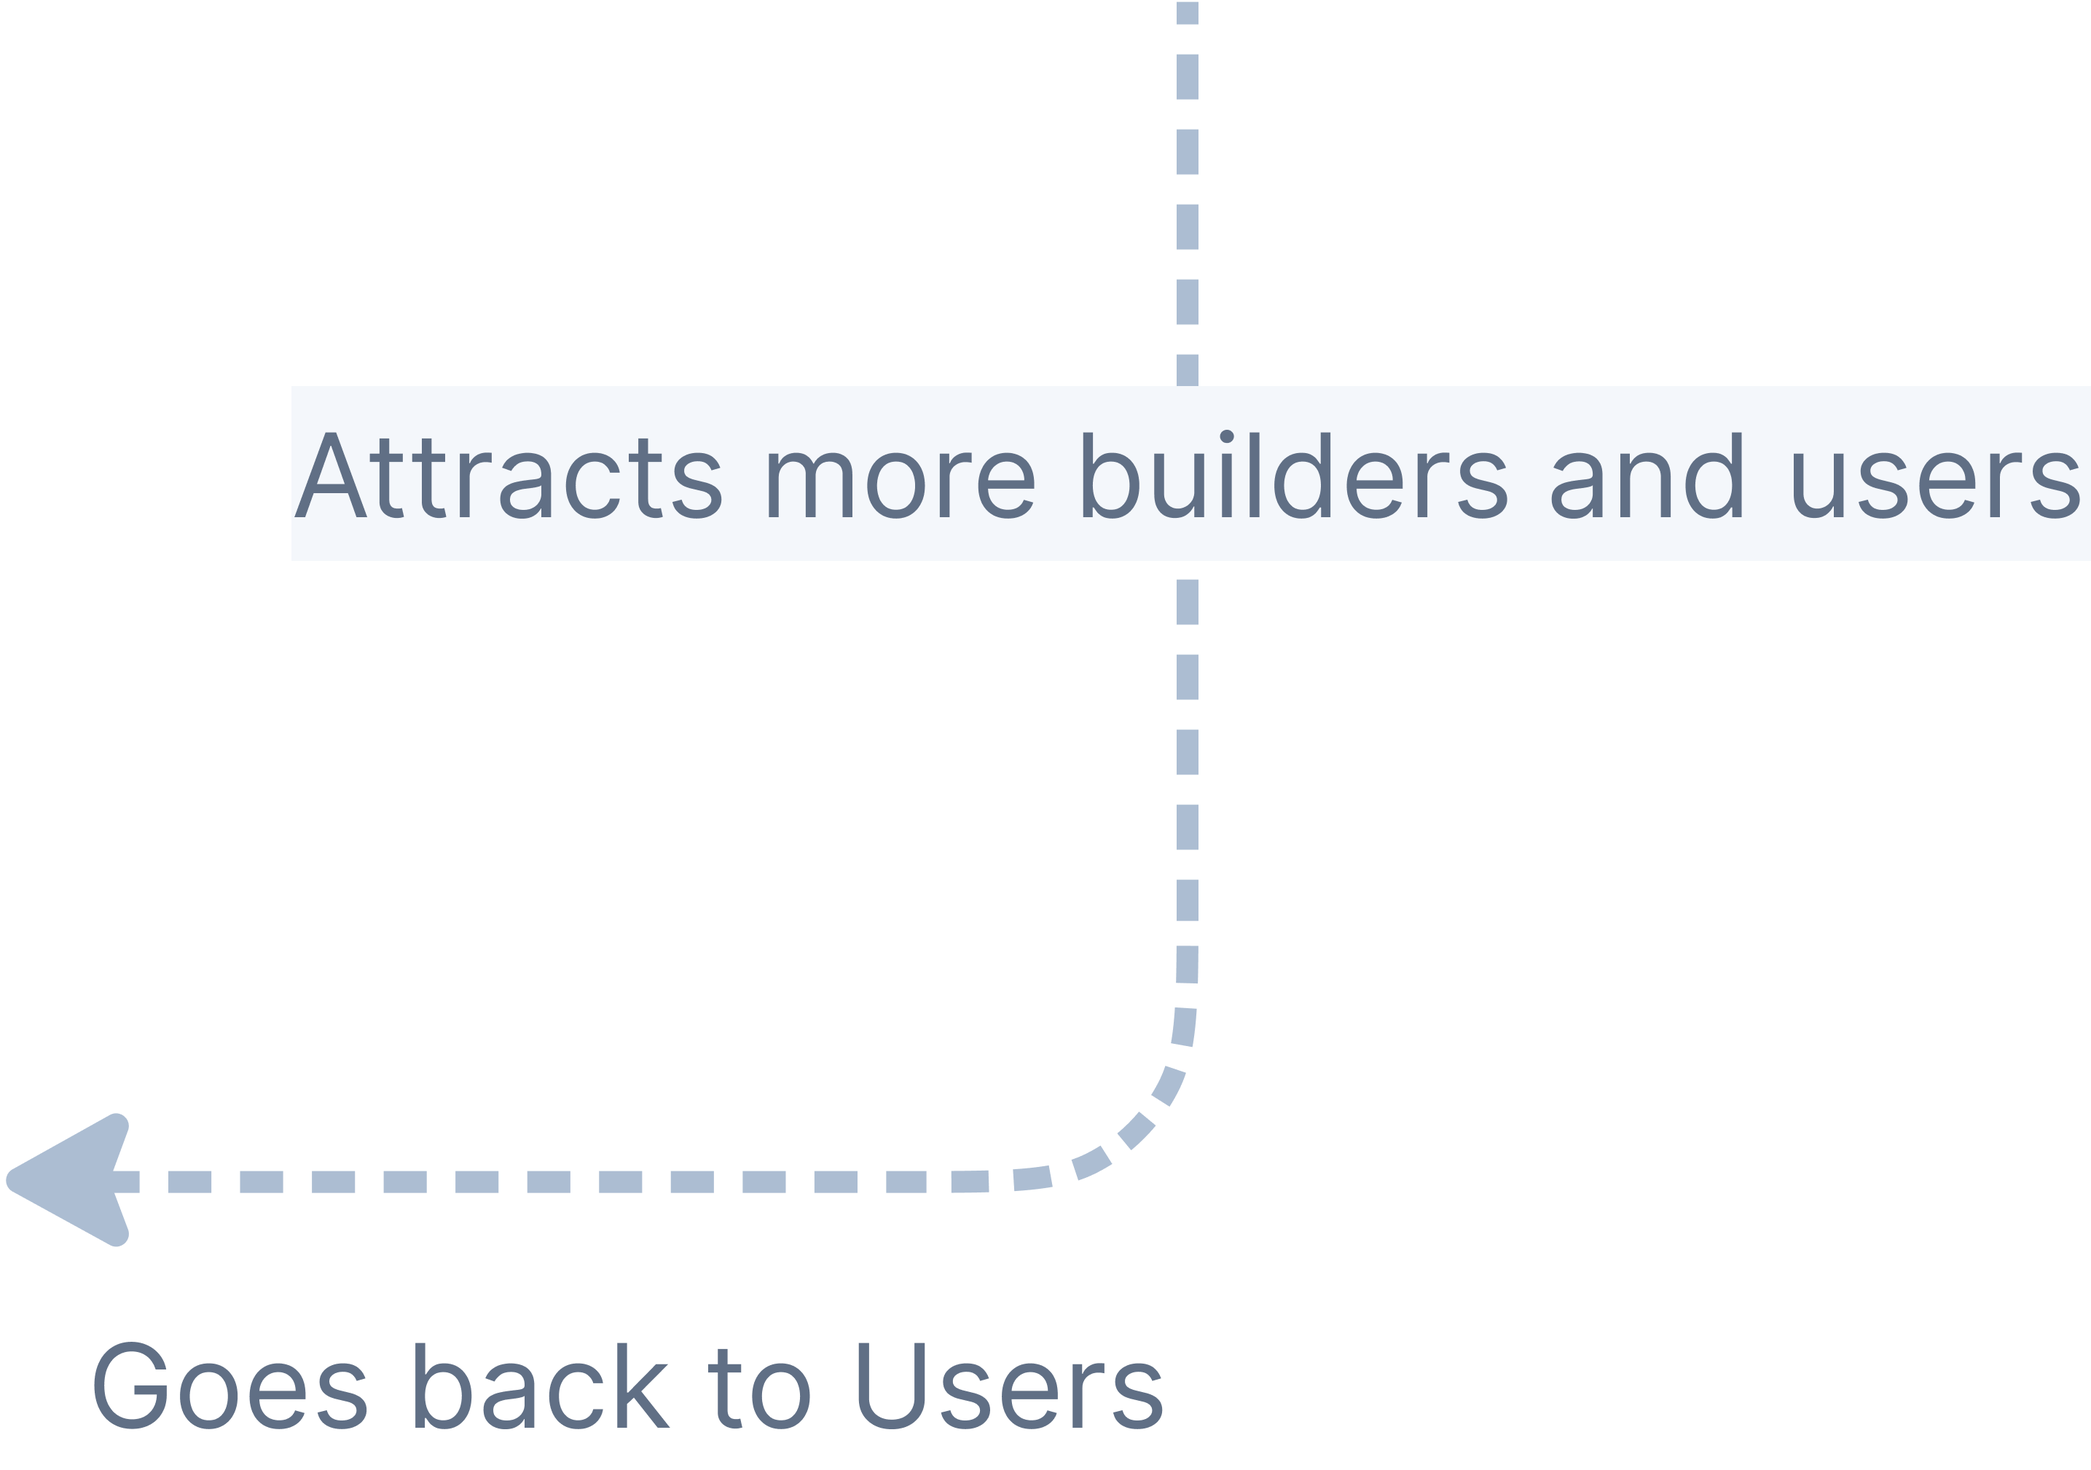
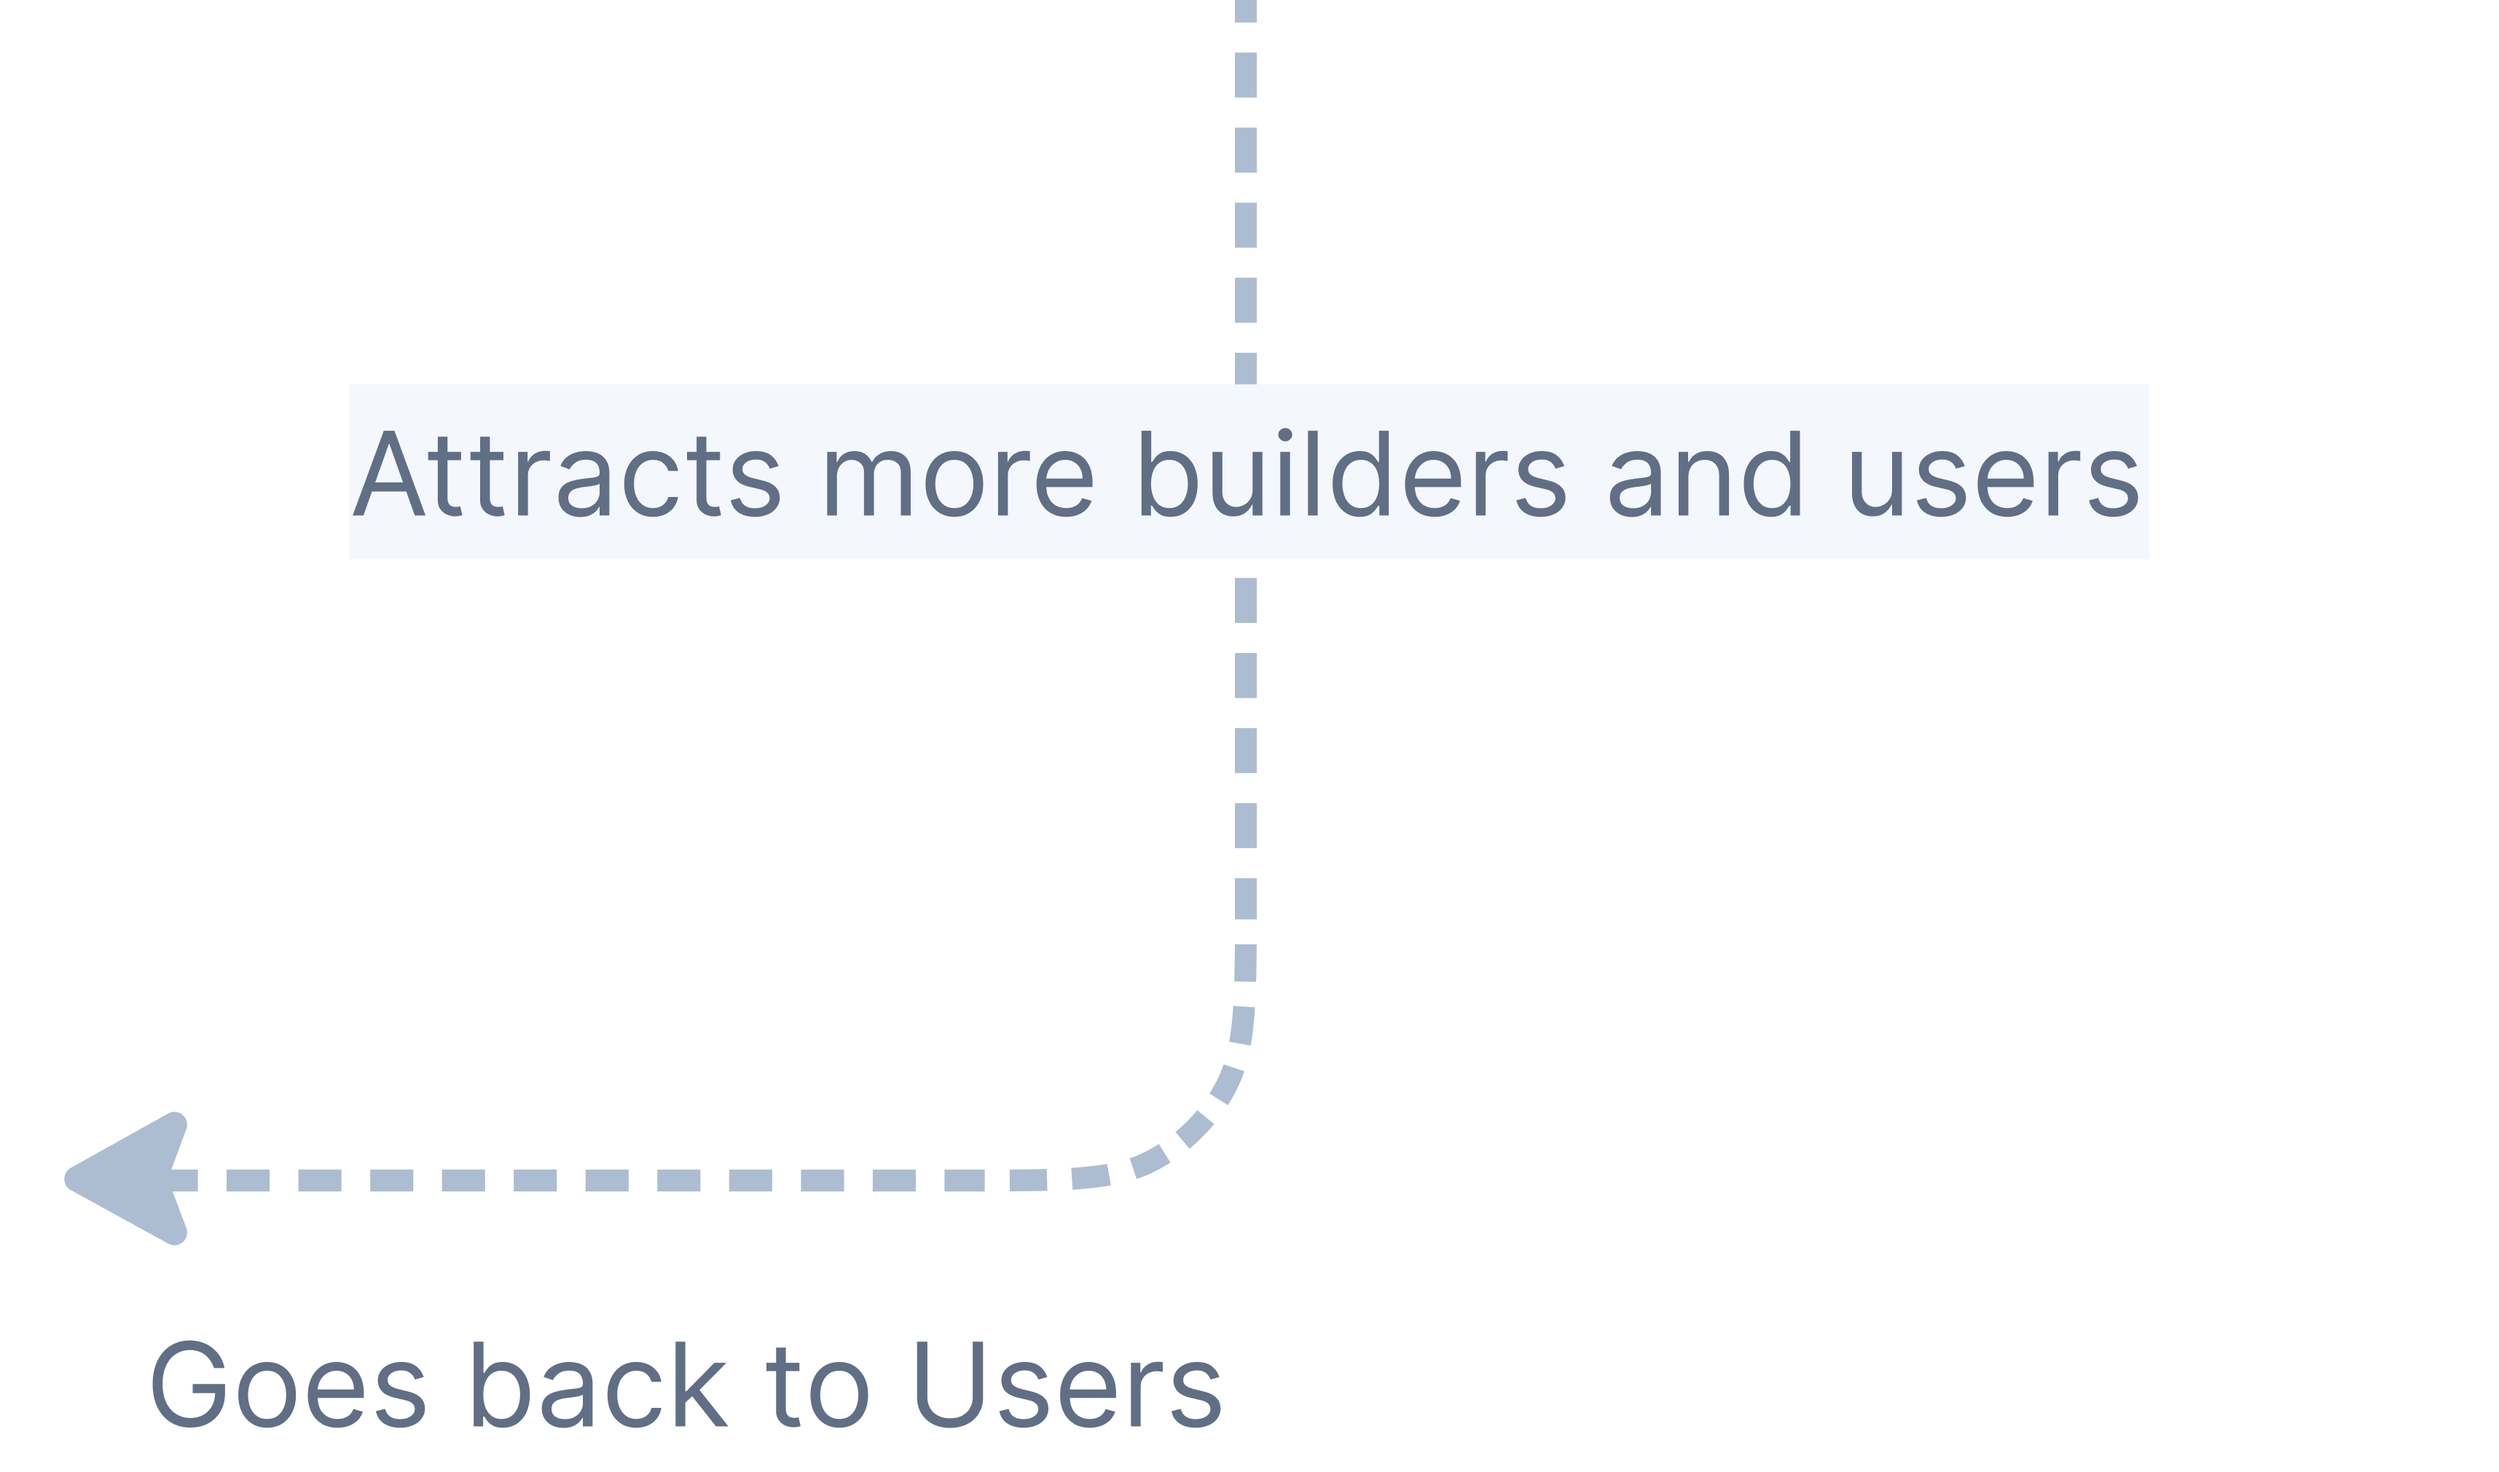
style: fix mobile arrow5

diff --git a/next.config.js b/next.config.js
@@ -1,9 +1,3 @@
-const {
-  BUILD_URL,
-  GOVERN_URL,
-  BONDING_PROGRAMS_URL,
-  BOND_URL,
-} = require('common-util/constants');
 const { withPlausibleProxy } = require('next-plausible');
 
 module.exports = withPlausibleProxy()({
@@ -60,32 +54,32 @@ module.exports = withPlausibleProxy()({
       // previously /services but renamed /agents
       {
         source: '/dev-incentives',
-        destination: `${BUILD_URL}/dev-incentives`,
+        destination: 'https://build.olas.network/dev-incentives',
         permanent: true,
       },
       {
         source: '/donate',
-        destination: `${GOVERN_URL}/donate`,
+        destination: 'https://govern.olas.network/donate',
         permanent: true,
       },
       {
         source: '/bonding-products',
-        destination: BONDING_PROGRAMS_URL,
+        destination: 'https://bond.olas.network/bonding-products',
         permanent: true,
       },
       {
         source: '/manage-solana-products',
-        destination: `${BOND_URL}/manage-solana-liquidity`,
+        destination: 'https://bond.olas.network/manage-solana-liquidity',
         permanent: true,
       },
       {
         source: '/manage-solana-liquidity',
-        destination: `${BOND_URL}/manage-solana-liquidity`,
+        destination: 'https://bond.olas.network/manage-solana-liquidity',
         permanent: true,
       },
       {
         source: '/my-bonds',
-        destination: `${BOND_URL}/my-bonds`,
+        destination: 'https://bond.olas.network/my-bonds',
         permanent: true,
       },
     ];

diff --git a/components/HomepageSection/Activity.jsx b/components/HomepageSection/Activity.jsx
@@ -401,9 +401,9 @@ export const Activity = () => {
         <Image
           src={`${imgPath}mobile-arrow5.png`}
           alt="arrow"
-          width={287}
+          width={343}
           height={202}
-          className="ml-[30px]"
+          className="mx-auto"
         />
       </div>
     </div>
